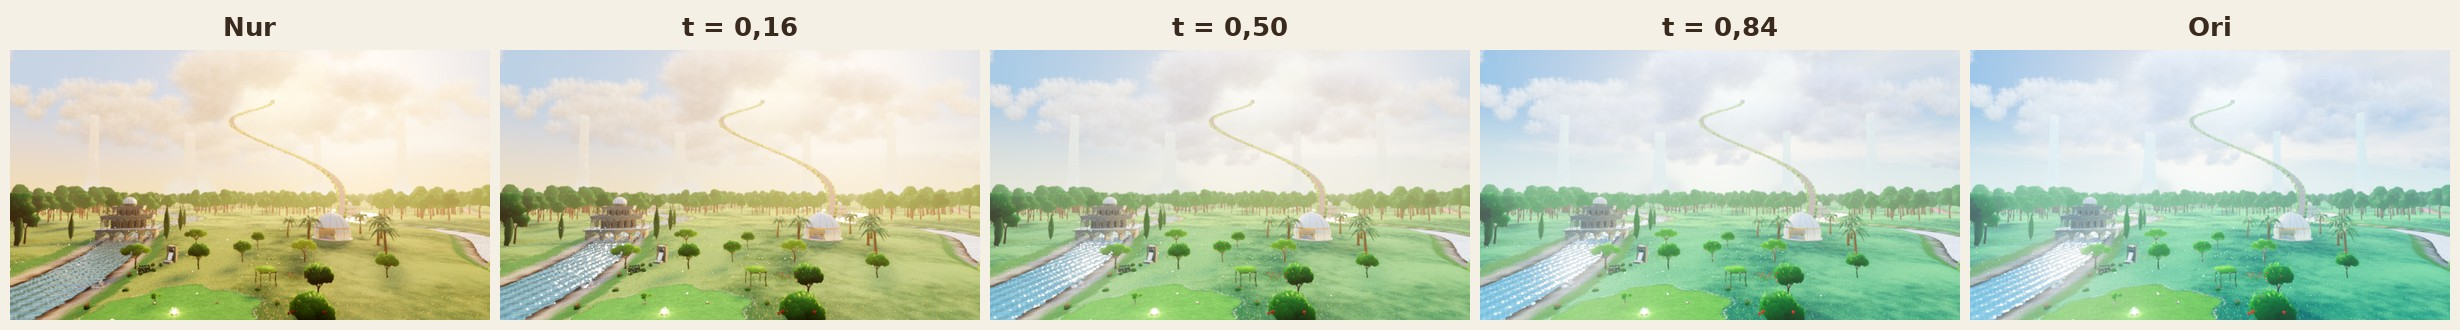
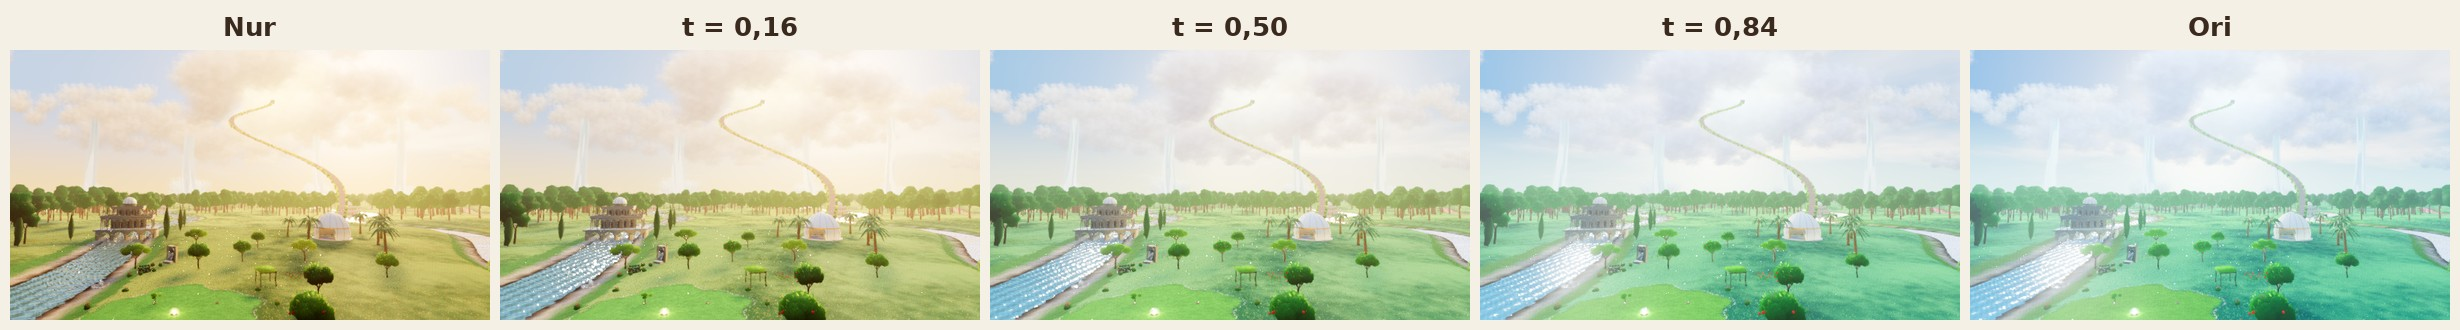
Çekimler: Nur ↔ Ori geçiş panosu ve GIF'i, çağlayanların önce/sonra panosu ve akış filmleri
- gecis_nur_ori_pano.jpg: ufuk, arsa, kesit; t = 0, 0,5, 1 (yeni çağlayanlarla)
- gecis_nur_ori.gif ve _serit.jpg: Nur'dan Ori'ye geçiş (yeni çağlayanlarla)
- selale_once_sonra.jpg: eski taslak, yeni ufuk ve 360 m'den yakın görünüş
- selale_akis_nur.gif, selale_akis_ori.gif: 24 kare/sn akış (2 sn döngü)
- selale_telefon_ekrani.jpg: oyunun dikey ekranında (720×1280) görünüş

Claude-Session: https://claude.ai/code/session_012ovk2zZ2JuhhuRneC6S7fT

diff --git a/CLAUDE.md b/CLAUDE.md
@@ -61,7 +61,7 @@ Bu dosya her yeni oturumda otomatik okunur. Önce burayı, sonra "Okunacak belge
 - **Son çekimler (`docs/goruntuler/cennet/`):**
   - `gecis_nur_ori_pano.jpg`: ufuk, arsa ve kesit; t = 0, 0,5, 1
   - `gecis_nur_ori.gif` ve `gecis_nur_ori_serit.jpg`: Nur'dan Ori'ye geçiş
-  - `selale_once_sonra.jpg`, `selale_akis_nur.gif` ve `selale_akis_ori.gif`: çağlayanlar
+  - `selale_once_sonra.jpg`, `selale_akis_nur.gif`, `selale_akis_ori.gif` ve `selale_telefon_ekrani.jpg` (dikey 720×1280): çağlayanlar
   - Eski taslaklar: `karsilastirma_nur_ori.jpg`, `taslak_*.png`
   - Kavram eskizleri: `eskiz_*.png`
 
